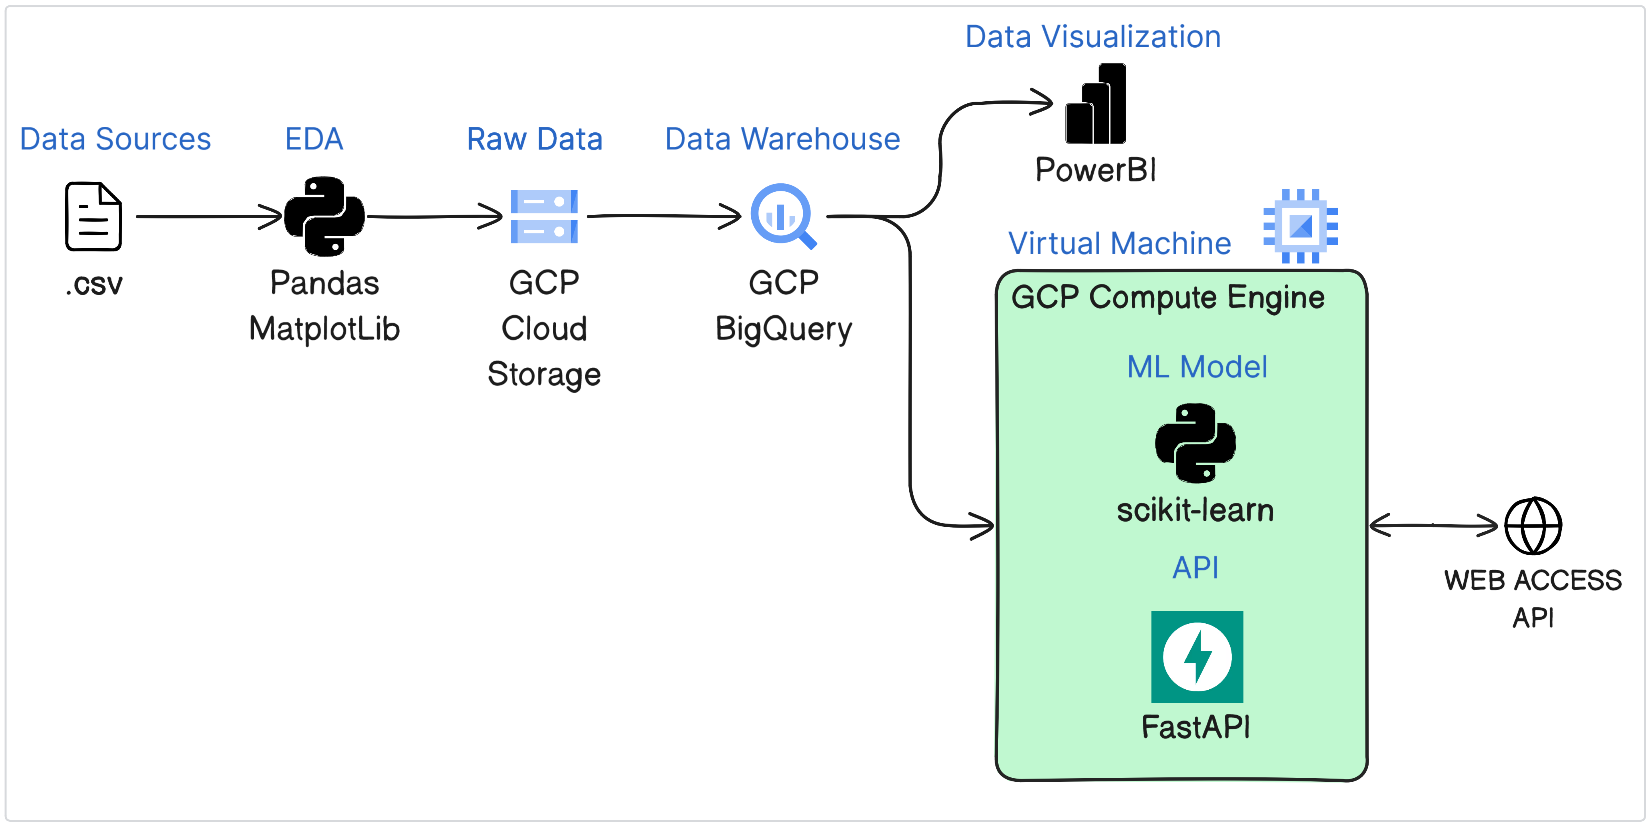
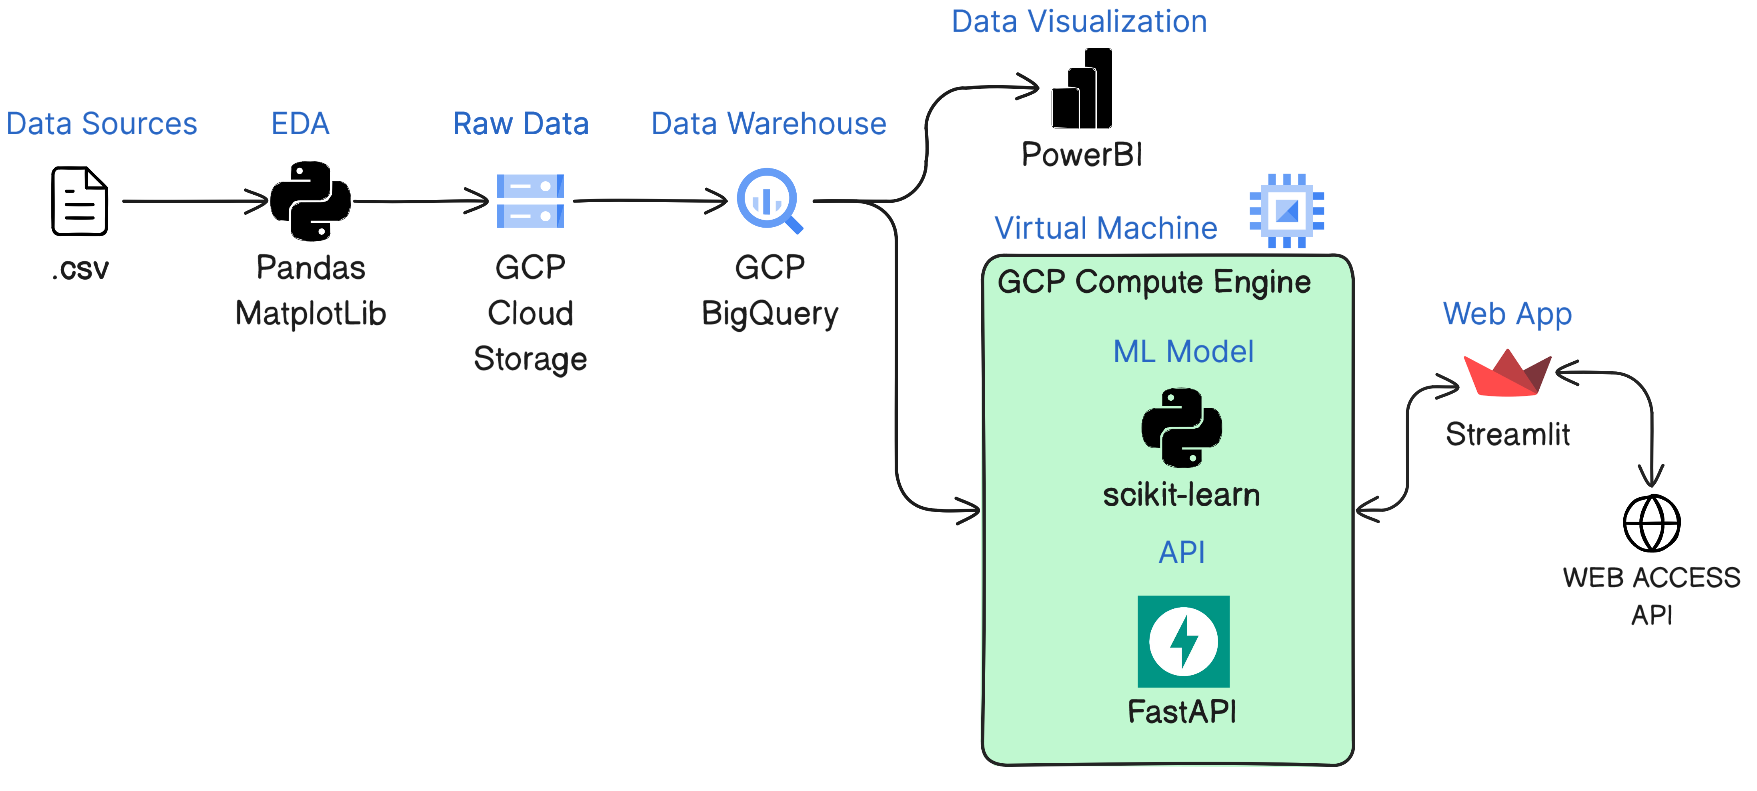
Cambios en readme y agregado de imagen de Gantt.png

diff --git a/README.md b/README.md
@@ -9,114 +9,148 @@
 
 ## **Contexto**
 
-En los últimos años han habido grandes flujos migratorios entre los distintos países de América que se han dado por diversas razones como pueden ser la estabilidad, la educación y las oportunidades de empleo de un país.
+En los últimos años han habido grandes flujos migratorios entre los distintos países de América. Éstos se han dado por diversas razones, como pueden ser la estabilidad, la educación y las oportunidades de empleo de un país.
 
-### *ONG*
+### *Cliente*
 La `Organización del Desarrollo y Bienestar` es una ONG que busca contribuir en la en la mejora de los ingresos de familias más vulnerables para que logren tener una mejor calidad de vida en el continente Americano.
 
-Dicha ONG pretende conocer las razónes principales de la migración masiva de los países, y así poder realizar acciones que ataquen las problemáticas que las generan.
+## **Objetivo**
 
-## **Objetivos**
-
-- Analizar los flujos migratorios y poder conocer sus causas para conocer sus causas.
-- Crear un Dashboard con KPI's que ayuden a analizar e interpretar 
-- Generar un modelo predictivo para detectar de antemano cambios en flujos migratorios, detectando en que países y que problemáticas asi de esta forma se podrían tomar acciones preventivas.
+Analizar el flujo migratorio de las personas con el fin de proveer información a la ONG, para que conozca las razónes principales de la migración y así poder realizar acciones que ataquen algunas de las problemáticas que las generan, mejorando así la calidad de vida de las personas.
 
 ## **Alcance**
 
-Dado el enfoque de la ONG se van a trabajar con datos de paises de América. Además se piensa estudiar desde el año `1990?` porque a partir de esa fecha hay mayor cantidad de datos como para hacer un análisis mas detallado. Se va a trabajar con variables del estilo de calidad de vida, educación y establidad del país.
+Dado que la ONG actua principalmente en América se van a trabajar con datos de paises ese continente. Además se piensa estudiar desde el año `1990?` porque es a partir de esas fechas que hay mayor cantidad de datos como para hacer un análisis mas detallado. 
+
+La calidad de vida se podría cuantificar con algunos indicadores como: ``Esperanza de vida al nacer??``, el año promedio escolar, desempleo e índice de desarrollo humano.
 
 ### *Fuera de alcance*
 
-Como hay mucha emigración desde América Latina hacia Europa se podría agregar en el estudio los países europeos como destino para saber cuales son las causas de dicha migración.
+Como hay mucha emigración desde América Latina hacia Europa se podría agregar en el estudio los países europeos como destino para poder compararlos con los paises de América que podria brindar mas informacion sobre las causas de dicha migración.
 
 ## **Fuentes de datos**
 
-Como fuente de datos principal se extrajeron datos del Banco Mundial, pero se complemento de otras fuentes como UNDP (Programa de Desarrollo de las Naciones Unidas) y `...`.
+Como fuente de datos principal se extrajeron datos del [Banco Mundial](https://datos.bancomundial.org/indicador), pero se complementó de otras fuentes como [UNDP](https://hdr.undp.org/data-center/documentation-and-downloads) (Programa de Desarrollo de las Naciones Unidas) y [...?]().
 
-- [Banco Mundial](https://datos.bancomundial.org/indicador)
-- [UNDP](https://hdr.undp.org/data-center/documentation-and-downloads)
+| Fuente | Tipo Datos | Ultima Actualización |
+| - |- | - |
+| Banco Mundial | [Migración neta](https://datos.bancomundial.org/indicator/SM.POP.NETM?end=2017&start=1962) | 2022 |
+| Banco Mundial | [Desempleo](https://datos.bancomundial.org/indicador/SL.UEM.TOTL.ZS?view=chart) | 2022 |
+| UNDP | [Desempleo](https://hdr.undp.org/data-center/documentation-and-downloads) | 2021 |
 
-## **KPIs utilizados**
+Dichos datos originales estan en la carpeta [datasets_fuente](datasets_fuente).
 
-*"Del entendimiento de la problemática surgirán cuestiones que se buscarán resolver con el trabajo o las herramientas desarrolladas. Estas cuestiones, formuladas como objetivos, admitirán la creación de KPIs para evaluar su cumplimiento. Es una tarea muy abarcativa y a la vez muy específica en torno tanto a la problemática como al enfoque elegido."*
+## **ETL y EDA Preliminar**
 
-### **KPI 1**
-...
+Luego con los datos de las diversas fuentes, se hicieron varias limpiezas y estudio de la calidad del dato. Adicionalmente se juntaron en un unico dataset con todas las variables relevantes para continuar el estudio y se exportaron a un archivo destino en [datasets_limpios](datasets_limpios).
 
-### **KPI 2**
-...
-
-### **KPI 3**
-...
-
-### **KPI 4**
-...
-
-## **EDA Preliminar**
 
 *"Finalmente, como en Data es muy importante trabajar con datos de calidad, deberán incluir en su informe un análisis sobre los datos con los que van a trabajar (metadatos), detallandolos lo más posible: fuentes y confiabilidad de las mismas, qué representa cada columna de cada dataset, tipos de datos, método de adquisición, fecha de adquisición y ultima actualización, etc."*
 
+### *Análisis*
+
+`Migracion Neta, Positivo es Inmigración, Negativa Emigración.`
+
+``Algun nombres y tipos de columnas a estudiar?``
+
+``Poner algo?``
+
+``Alguna grafica?``
+
+### *Conclusiones*
+
+``Poner algo``
+
+Para un análisis mas detallado del todo este proceso se puede consultar el [EDA](EDA.ipynb).
+
+## **KPIs utilizados**
+
+### **KPI 1: Desempleo**
+
+Debido a que una de las propuestas que tiene la ONG es la de realizar campaña de empleo en los paises mas vulnerables se puede utilizar un KPI que mida el porcentaje de desempleo y tenga como objetivo bajar 2 % en un año.
+
+### **KPI 2: Escolaridad**
+
+Otra forma con la que se quiere mejorar la calidad de vida es mejorando los niveles de escolaridad de la población para que a futuro logren tener mas oportunidades de empleo. Teniendo esto en cuenta se puede medir la variación de los años de escolaridad y poner como objetivo el aumento de 1 año por año.
+
+
+### **KPI 3: **
+...
+
+
+### **KPI 4: **
+...
+
+
+### **KPI 5: Aumento de la esperanza de vida, ME PARECE QUE AL FINAL NO**
+...
+
+
+## **Solución Propuesta**
+
+Debajo se detalla la solución propuesta separando los distintos entregables en cada etapa del proyecto.
+
+### *Sprint 1*
+
+- Documentación de Contexto, Objetivo y Alcance del proyecto.
+- Definición del Stack Tecnológico completo.
+- Análisis Exploratorio de los Datos preliminar y definición de 4 KPI's a utilizar.
+
+### *Sprint 2*
+
+- Data Warehouse automatizado con Carga Inicial.
+- Dashboard preliminar (MVP)
+- Sistema preliminar de prediccion de razones de flujos migratorios (MVP)
+
+### *Sprint 3*
+
+- Dashboard interactivo con KPI's que ayuden a analizar e interpretar las razones de los flujos migratorios.
+- Una Web App para poder acceder al modelo predictivo para detectar de antemano cambios en flujos migratorios, detectando en que países y que problemáticas asi de esta forma se podrían tomar acciones preventivas.
+
 ## **Implementación de Stack Tecnológico**
 
-*"Una parte muy importante de la solución propuesta, es con qué herramientas (stack tecnológico) van a realizar la arquitectura del proyecto. Para esto, lo que van a tener que hacer es seleccionar una pequeña porción de los datos que disponen y realizar un proceso de limpieza y transformación utilizando las herramientas que planean implementar. Esto les dará una idea de cómo funcionarán en el proyecto completo y les permitirá tener un mejor abordaje para futuras tareas. Hay que tener en cuenta que, como este ítem va a ser una presentación previa de lo que van a trabajar en el segundo sprint, el PO puede dar el OK o determinar cuál es el mejor camino para que tomen. Esto les va a permitir adelantar trabajo de la segunda semana, ya que no se va a tener que esperar hasta la segunda demo para verificar si la arquitectura cumple con los requisitos del PO."*
+Para poder implementar la solución propuesta se propone utilizar el Stack Tecnológico detallado debajo.
 
-El Stack Tecnológico propuesto es el siguiente:
+- Data Sources
+    - Archivos `.csv` de distintas organizaciónes como fuentes de datos relevantes.
+- EDA en Python y Jupyter Notebook.
+    - [Numpy](https://numpy.org/) y [Pandas](https://pandas.pydata.org/) para manejo de datos.
+    - [Matplotlib](https://matplotlib.org/) y [Seaborn](https://seaborn.pydata.org/) para visualizaciones.
+- Raw Data
+    -  [GCP Cloud Storage](https://cloud.google.com/storage) para almacenar los datos crudos en la nuve de GCP.
+- Data Warehouse
+    - [GCP BigQuery](https://cloud.google.com/bigquery) para transformar los datos crudos en un Data Warehouse.
+- Data Visualization and Dashboard
+    - [Power BI](https://powerbi.microsoft.com/es-es/) para generación de Dashboards y visualizaciones tomando datos directamente de nuestro Data Warehouse.
+- Virtual Machine
+    - [GCP Compute Engine](https://cloud.google.com/compute) para poder alojar nuestro modelo de Machine Learning y dejar una API para producir las predicciones del modelo.
+        - Machine Learing Model
+            - [scikit-learn](https://scikit-learn.org/stable/)
+        - API
+            - [Fast API](https://fastapi.tiangolo.com/)
+- Web App
+    - [Streamlit](https://streamlit.io/) para crear nuestra aplicación Web y que el cliente pueda interactuar de una forma amigable con nuestro sistema de predicción.
 
 <p align='center'>
 <img src ="Stack_tecnologico.png" width="800">
 <p>
 
-- Data Sources
-    - Archivos `.csv` de distintas organizaciónes.
-- EDA (Python)
-    - [Numpy](https://numpy.org/) y [Pandas](https://pandas.pydata.org/) para manejo de datos.
-    - [Matplotlib](https://matplotlib.org/) y [Seaborn](https://seaborn.pydata.org/) para visualizaciones.
-- Raw Data
-    -  [GCP Cloud Storage](https://cloud.google.com/storage)
-- Data Warehouse
-    - [GCP BigQuery](https://cloud.google.com/bigquery)
-- Data Visualization and Dashboard
-    - [Power BI](https://powerbi.microsoft.com/es-es/)
-- Virtual Machine 
-    - [GCP Compute Engine](https://cloud.google.com/compute)
-        - Machine Learing Model
-            - [scikit-learn](https://scikit-learn.org/stable/)
-        - API
-            - [Fast API](https://fastapi.tiangolo.com/)
 
+## **Metodologías de trabajo y organización**
+Utilizamos un acercamiento a metodologías ágiles, definiendo las tareas que precisabamos realizar en la semana para llegar al entregable pedido. Luego en las Daily meeting aprovechabamos para hacer una puesta a punto de lo realizado, hablar sobre que problemas nos habiamos enfrentado y con que tareas ibamos a continuar.
 
-## **Solución Propuesta**
-
-*"Deben detallar qué tareas harán para cumplir los objetivos de trabajo propuestos previamente y cómo lo harán (metodologías de trabajo, forma de organización, distribución de tareas, roles de cada uno dentro del equipo, etc). También, deben detallar qué productos surgirán de su trabajo y en qué etapa los presentarán, teniendo en cuenta los requerimientos generales (entregables esperados) para cada etapa del proyecto."*   
-
-
-### **Metodologías de trabajo**
-...
-
-### **Forma de organización**
-...
 
 ### **Distribución de tareas y roles**
-...
+Marcelo Suarez - Data Analyst
+Nehuen Gonzalez - Data Analyst
+Thiago Gonzales - Data Engineer
+Sebastián Besio - Data Engineer
 
-### **Cronograma de Gantt**
-*"A su vez, deben realizar una estimación de tiempo para cada tarea, contemplando los tiempos de ejecución globales y los hitos previstos para cada semana; y plasmar esa estimación en un diagrama de Gantt."*
 
+### **Diagrama de Gantt**
 
-`PONER IMAGEN DE GANTT`
+Estimación de tareas para llegar en tiempo y forma a la finalización del proyecto el 15/09/23 contemplando los dos hitos intermedios.
 
 <p align='center'>
-<img src ="1.png" width="800">
+<img src ="Gantt.png" width="1000">
 <p>
-
-
-
-## Entregables Sprint 1
-
-- Repositorio Github
-- Documentación
-- 4 KPIs
-- EDA Preliminar, Calidad del dato
-- Implementación Stak Propuesto
-- Diagrama Gantt
